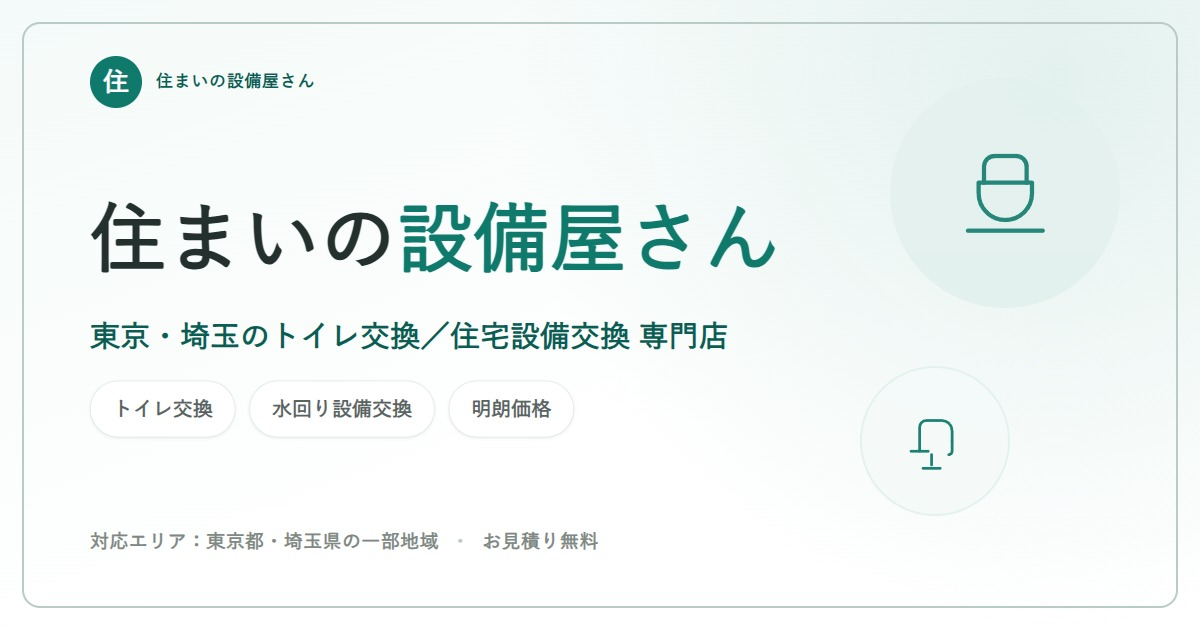
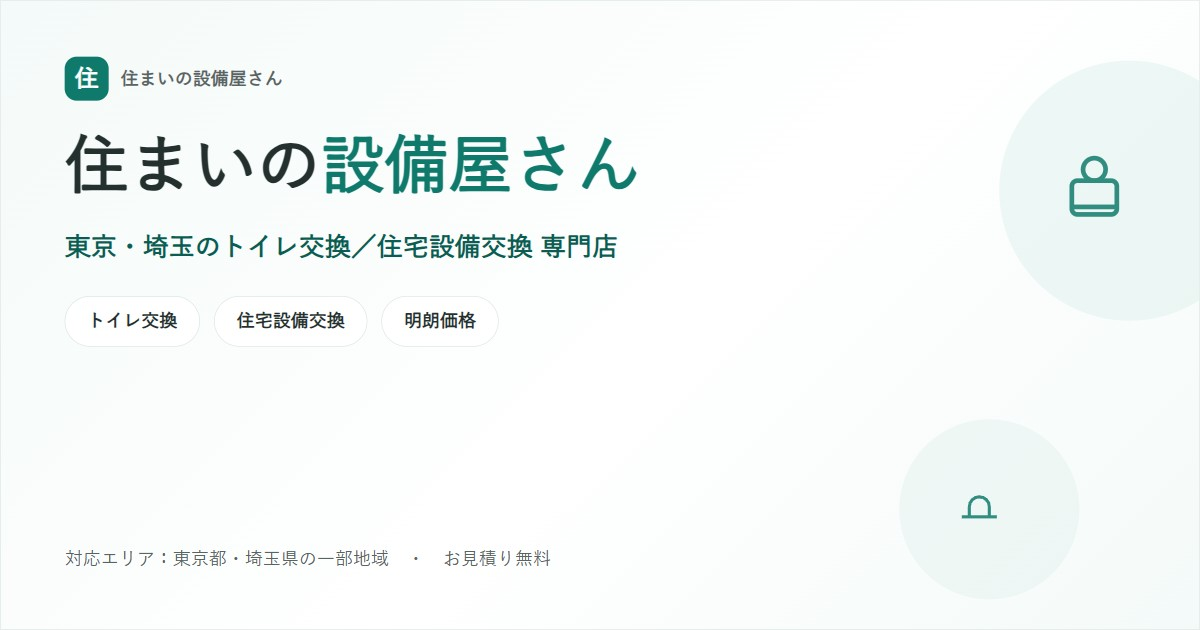
表記を「水回り設備交換」から「住宅設備交換」に統一
IHクッキングヒーターやレンジフードなど厳密には水回りではない対応カテゴリを含むため、
title/meta description/JSON-LD/本文の表記を住宅設備交換系に統一。OGP画像も再作成。

diff --git a/index.html b/index.html
@@ -24,7 +24,7 @@
     "@context": "https://schema.org",
     "@type": "HomeAndConstructionBusiness",
     "name": "住まいの設備屋さん",
-    "description": "東京都・埼玉県の一部地域で、トイレ・温水洗浄便座・蛇口・ビルトイン食洗機・ビルトインコンロ・レンジフード・IHクッキングヒーター・浴室乾燥機・換気扇などの住宅設備（水回り）交換工事を専門に行う事業者です。対応エリアと取り扱い商品を絞ることで、明朗な低価格と正確な施工を両立しています。",
+    "description": "東京都・埼玉県の一部地域で、トイレ・温水洗浄便座・蛇口・ビルトイン食洗機・ビルトインコンロ・レンジフード・IHクッキングヒーター・浴室乾燥機・換気扇などの住宅設備交換工事を専門に行う事業者です。対応エリアと取り扱い商品を絞ることで、明朗な低価格と正確な施工を両立しています。",
     "url": "https://www.sumainosetsubiya.com/",
     "priceRange": "¥¥",
     "email": "sumainosetsubiya@gmail.com",
@@ -78,7 +78,7 @@
       <span class="logo-mark" aria-hidden="true">住</span>
       <span class="logo-text">
         <span class="logo-text-main">住まいの設備屋さん</span>
-        <span class="logo-text-sub">水回り設備 交換専門</span>
+        <span class="logo-text-sub">住宅設備 交換専門</span>
       </span>
     </a>
 
@@ -108,9 +108,9 @@
     <div class="container hero-inner">
       <div class="hero-content">
         <span class="hero-eyebrow">東京・埼玉の一部エリア対応</span>
-        <h1 class="hero-title">地域と商品を絞るから実現できる、<br>明朗価格と正確な水回り設備交換</h1>
+        <h1 class="hero-title">地域と商品を絞るから実現できる、<br>明朗価格と正確な住宅設備交換</h1>
         <p class="hero-lead">
-          トイレ・食洗機・コンロ・レンジフード・蛇口など、住まいの水回り設備の交換工事を専門に行っています。
+          トイレ・食洗機・コンロ・レンジフード・蛇口など、住宅設備の交換工事を専門に行っています。
           対応エリアと取り扱い商品をあらかじめ限定することで、無駄なコストを抑えた明朗な価格と、
           丁寧で正確な施工の両立を目指しています。
         </p>
@@ -138,7 +138,7 @@
         <h2 class="section-title">対応エリアと商品を絞った、地域密着の専門店です</h2>
         <p class="section-lead">
           「住まいの設備屋さん」は、東京都・埼玉県の一部地域に対応エリアを限定して活動する、
-          水回り設備交換の専門事業者です。トイレ・温水洗浄便座・蛇口・ビルトイン食洗機・
+          住宅設備交換の専門事業者です。トイレ・温水洗浄便座・蛇口・ビルトイン食洗機・
           ビルトインコンロ・レンジフード・IHクッキングヒーター・浴室乾燥機・換気扇など、
           住宅設備の交換工事を専門としています。
         </p>
@@ -155,7 +155,7 @@
         <div class="card">
           <h3 class="card-title">安さだけでなく、正確な取り付けを重視</h3>
           <p class="card-text">
-            価格を抑えることだけを目的にはしていません。水回り設備は取り付けの正確さが
+            価格を抑えることだけを目的にはしていません。住宅設備は取り付けの正確さが
             その後の使い勝手や耐久性に直結するため、一件一件、丁寧かつ確実な施工を
             何より大切にしています。
           </p>
@@ -169,7 +169,7 @@
     <div class="container">
       <div class="section-header">
         <span class="section-eyebrow">対応サービス</span>
-        <h2 class="section-title">住まいの水回り設備、幅広く交換対応しています</h2>
+        <h2 class="section-title">住宅設備、幅広く交換対応しています</h2>
         <p class="section-lead">下記9つのカテゴリの交換工事に対応しています。詳しい料金の目安はサービス・料金ページでご確認いただけます。</p>
       </div>
 
@@ -306,7 +306,7 @@
           </span>
           <div>
             <h3>丁寧で正確な施工</h3>
-            <p>安さだけを追い求めるのではなく、水回り設備ならではの取り付け精度にこだわっています。取り扱い商品を絞ることで、施工品質の安定にもつなげています。</p>
+            <p>安さだけを追い求めるのではなく、住宅設備ならではの取り付け精度にこだわっています。取り扱い商品を絞ることで、施工品質の安定にもつなげています。</p>
           </div>
         </div>
 
@@ -366,7 +366,7 @@
         </div>
 
         <div class="card">
-          <div class="photo-placeholder" role="img" aria-label="キッチン水回り設備交換工事の施工写真（準備中）：ビルトインコンロ・レンジフード交換の様子を掲載予定">
+          <div class="photo-placeholder" role="img" aria-label="キッチン住宅設備交換工事の施工写真（準備中）：ビルトインコンロ・レンジフード交換の様子を掲載予定">
             <svg viewBox="0 0 48 48" aria-hidden="true"><rect x="7" y="10" width="34" height="28" rx="2"/><circle cx="17" cy="20" r="5"/><circle cx="31" cy="20" r="5"/></svg>
             <strong>施工写真 準備中</strong>
           </div>
@@ -416,7 +416,7 @@
         <span class="logo-mark" aria-hidden="true">住</span>
         <span class="logo-text">
           <span class="logo-text-main">住まいの設備屋さん</span>
-          <span class="logo-text-sub">水回り設備 交換専門</span>
+          <span class="logo-text-sub">住宅設備 交換専門</span>
         </span>
       </a>
       <p>東京・埼玉の一部対応エリアにて、トイレ・温水洗浄便座・蛇口・ビルトイン食洗機・ビルトインコンロ・レンジフード・IHクッキングヒーター・浴室乾燥機・換気扇の交換工事を専門に行っています。対応地域と対応商品を絞ることで、明朗な低価格と正確な施工を両立しています。</p>

diff --git a/partials_header_footer_reference.html b/partials_header_footer_reference.html
@@ -59,7 +59,7 @@
 <head>
   <meta charset="UTF-8">
   <meta name="viewport" content="width=device-width, initial-scale=1">
-  <title>【ページ名】｜住まいの設備屋さん（東京・埼玉の水回り設備交換専門）</title>
+  <title>【ページ名】｜住まいの設備屋さん（東京・埼玉の住宅設備交換専門）</title>
   <meta name="description" content="【このページ固有の120〜160文字程度の紹介文。対象キーワードを自然に含める。例：東京・埼玉の一部対応エリアで、トイレ・食洗機・コンロなど住宅設備の交換工事を行う「住まいの設備屋さん」の◯◯ページです。】">
 
   <!-- OGP（SNS等でシェアされた際の表示設定） -->
@@ -93,7 +93,7 @@
       <span class="logo-mark" aria-hidden="true">住</span>
       <span class="logo-text">
         <span class="logo-text-main">住まいの設備屋さん</span>
-        <span class="logo-text-sub">水回り設備 交換専門</span>
+        <span class="logo-text-sub">住宅設備 交換専門</span>
       </span>
     </a>
 
@@ -128,7 +128,7 @@
         <span class="logo-mark" aria-hidden="true">住</span>
         <span class="logo-text">
           <span class="logo-text-main">住まいの設備屋さん</span>
-          <span class="logo-text-sub">水回り設備 交換専門</span>
+          <span class="logo-text-sub">住宅設備 交換専門</span>
         </span>
       </a>
       <p>東京・埼玉の一部対応エリアにて、トイレ・温水洗浄便座・蛇口・ビルトイン食洗機・ビルトインコンロ・レンジフード・IHクッキングヒーター・浴室乾燥機・換気扇の交換工事を専門に行っています。対応地域と対応商品を絞ることで、明朗な低価格と正確な施工を両立しています。</p>
@@ -256,7 +256,7 @@
   "@context": "https://schema.org",
   "@type": "HomeAndConstructionBusiness",
   "name": "住まいの設備屋さん",
-  "description": "東京都・埼玉県の一部地域で、トイレ・温水洗浄便座・蛇口・ビルトイン食洗機・ビルトインコンロ・レンジフード・IHクッキングヒーター・浴室乾燥機・換気扇などの住宅設備（水回り）交換工事を専門に行う事業者です。対応エリアと取り扱い商品を絞ることで、明朗な低価格と正確な施工を両立しています。",
+  "description": "東京都・埼玉県の一部地域で、トイレ・温水洗浄便座・蛇口・ビルトイン食洗機・ビルトインコンロ・レンジフード・IHクッキングヒーター・浴室乾燥機・換気扇などの住宅設備交換工事を専門に行う事業者です。対応エリアと取り扱い商品を絞ることで、明朗な低価格と正確な施工を両立しています。",
   "url": "https://www.sumainosetsubiya.com/",
   "priceRange": "¥¥",
   "email": "sumainosetsubiya@gmail.com",

diff --git a/works.html b/works.html
@@ -3,13 +3,13 @@
 <head>
   <meta charset="UTF-8">
   <meta name="viewport" content="width=device-width, initial-scale=1">
-  <title>施工実績｜住まいの設備屋さん（東京・埼玉の水回り設備交換専門）</title>
+  <title>施工実績｜住まいの設備屋さん（東京・埼玉の住宅設備交換専門）</title>
   <meta name="description" content="住まいの設備屋さんの施工実績ページです。トイレ・ビルトイン食洗機・ビルトインコンロ・蛇口など、東京・埼玉エリアで対応した交換工事の事例を、施工エリア・取付商品・作業時間とあわせてご紹介しています。">
 
   <!-- OGP（SNS等でシェアされた際の表示設定） -->
   <meta property="og:type" content="website">
   <meta property="og:title" content="施工実績｜住まいの設備屋さん">
-  <meta property="og:description" content="トイレ・食洗機・コンロ・蛇口など、東京・埼玉エリアで対応した水回り設備交換工事の施工実績をご紹介しています。">
+  <meta property="og:description" content="トイレ・食洗機・コンロ・蛇口など、東京・埼玉エリアで対応した住宅設備交換工事の施工実績をご紹介しています。">
   <meta property="og:url" content="https://（本番ドメイン確定後にここへ記載）/works.html">
   <!-- og:image: 施工写真・アイキャッチ画像が用意でき次第、このパスに差し替えてください -->
   <meta property="og:image" content="images/ogp-default.jpg">
@@ -38,7 +38,7 @@
       <span class="logo-mark" aria-hidden="true">住</span>
       <span class="logo-text">
         <span class="logo-text-main">住まいの設備屋さん</span>
-        <span class="logo-text-sub">水回り設備 交換専門</span>
+        <span class="logo-text-sub">住宅設備 交換専門</span>
       </span>
     </a>
 
@@ -125,7 +125,7 @@
         <span class="logo-mark" aria-hidden="true">住</span>
         <span class="logo-text">
           <span class="logo-text-main">住まいの設備屋さん</span>
-          <span class="logo-text-sub">水回り設備 交換専門</span>
+          <span class="logo-text-sub">住宅設備 交換専門</span>
         </span>
       </a>
       <p>東京・埼玉の一部対応エリアにて、トイレ・温水洗浄便座・蛇口・ビルトイン食洗機・ビルトインコンロ・レンジフード・IHクッキングヒーター・浴室乾燥機・換気扇の交換工事を専門に行っています。対応地域と対応商品を絞ることで、明朗な低価格と正確な施工を両立しています。</p>

diff --git a/about.html b/about.html
@@ -28,7 +28,7 @@
       <span class="logo-mark" aria-hidden="true">住</span>
       <span class="logo-text">
         <span class="logo-text-main">住まいの設備屋さん</span>
-        <span class="logo-text-sub">水回り設備 交換専門</span>
+        <span class="logo-text-sub">住宅設備 交換専門</span>
       </span>
     </a>
 
@@ -81,7 +81,7 @@
             <tr>
               <th scope="row">事業内容</th>
               <td>
-                住宅設備（水回り）の交換工事<br>
+                住宅設備の交換工事<br>
                 トイレ・温水洗浄便座・蛇口（キッチン／浴室／洗面）・ビルトイン食洗機・
                 ビルトインコンロ・レンジフード・IHクッキングヒーター・浴室乾燥機・
                 換気扇（トイレ本体交換時のオプション）の交換工事
@@ -105,7 +105,7 @@
 
       <p class="section-lead max-w-prose">
         住まいの設備屋さんは、代表の菅原健一が営む個人事業として、東京都・埼玉県の一部地域に
-        対応エリアを限定し、住宅設備（水回り）の交換工事を専門に行っています。
+        対応エリアを限定し、住宅設備の交換工事を専門に行っています。
         対応エリアと取り扱い商品を絞ることで、無駄なコストを抑えた明朗な価格と、
         正確で丁寧な施工の両立を目指しています。
       </p>
@@ -226,7 +226,7 @@
         <span class="logo-mark" aria-hidden="true">住</span>
         <span class="logo-text">
           <span class="logo-text-main">住まいの設備屋さん</span>
-          <span class="logo-text-sub">水回り設備 交換専門</span>
+          <span class="logo-text-sub">住宅設備 交換専門</span>
         </span>
       </a>
       <p>東京・埼玉の一部対応エリアにて、トイレ・温水洗浄便座・蛇口・ビルトイン食洗機・ビルトインコンロ・レンジフード・IHクッキングヒーター・浴室乾燥機・換気扇の交換工事を専門に行っています。対応地域と対応商品を絞ることで、明朗な低価格と正確な施工を両立しています。</p>

diff --git a/services.html b/services.html
@@ -3,7 +3,7 @@
 <head>
   <meta charset="UTF-8">
   <meta name="viewport" content="width=device-width, initial-scale=1">
-  <title>サービス・料金｜住まいの設備屋さん（東京・埼玉の水回り設備交換専門）</title>
+  <title>サービス・料金｜住まいの設備屋さん（東京・埼玉の住宅設備交換専門）</title>
   <meta name="description" content="住まいの設備屋さんのサービス・料金ページです。トイレ・温水洗浄便座・蛇口・ビルトイン食洗機・ビルトインコンロ・レンジフード・IHクッキングヒーター・浴室乾燥機・換気扇の9カテゴリについて、グレード別の商品と工事費込みの総額料金をご案内しています。">
 
   <!-- OGP（SNS等でシェアされた際の表示設定） -->
@@ -28,7 +28,7 @@
       <span class="logo-mark" aria-hidden="true">住</span>
       <span class="logo-text">
         <span class="logo-text-main">住まいの設備屋さん</span>
-        <span class="logo-text-sub">水回り設備 交換専門</span>
+        <span class="logo-text-sub">住宅設備 交換専門</span>
       </span>
     </a>
 
@@ -538,7 +538,7 @@
         <span class="logo-mark" aria-hidden="true">住</span>
         <span class="logo-text">
           <span class="logo-text-main">住まいの設備屋さん</span>
-          <span class="logo-text-sub">水回り設備 交換専門</span>
+          <span class="logo-text-sub">住宅設備 交換専門</span>
         </span>
       </a>
       <p>東京・埼玉の一部対応エリアにて、トイレ・温水洗浄便座・蛇口・ビルトイン食洗機・ビルトインコンロ・レンジフード・IHクッキングヒーター・浴室乾燥機・換気扇の交換工事を専門に行っています。対応地域と対応商品を絞ることで、明朗な低価格と正確な施工を両立しています。</p>

diff --git a/area.html b/area.html
@@ -3,7 +3,7 @@
 <head>
   <meta charset="UTF-8">
   <meta name="viewport" content="width=device-width, initial-scale=1">
-  <title>対応エリア｜住まいの設備屋さん（東京・埼玉の水回り設備交換専門）</title>
+  <title>対応エリア｜住まいの設備屋さん（東京・埼玉の住宅設備交換専門）</title>
   <meta name="description" content="住まいの設備屋さんの対応エリア一覧です。東京都（足立区・荒川区・板橋区・北区・練馬区）、埼玉県（上尾市・朝霞市・桶川市・川口市・越谷市・さいたま市各区・志木市・草加市・戸田市・新座市・富士見市・ふじみ野市・和光市・蕨市）で対応しています。">
 
   <!-- OGP（SNS等でシェアされた際の表示設定） -->
@@ -28,7 +28,7 @@
       <span class="logo-mark" aria-hidden="true">住</span>
       <span class="logo-text">
         <span class="logo-text-main">住まいの設備屋さん</span>
-        <span class="logo-text-sub">水回り設備 交換専門</span>
+        <span class="logo-text-sub">住宅設備 交換専門</span>
       </span>
     </a>
 
@@ -208,7 +208,7 @@
         <span class="logo-mark" aria-hidden="true">住</span>
         <span class="logo-text">
           <span class="logo-text-main">住まいの設備屋さん</span>
-          <span class="logo-text-sub">水回り設備 交換専門</span>
+          <span class="logo-text-sub">住宅設備 交換専門</span>
         </span>
       </a>
       <p>東京・埼玉の一部対応エリアにて、トイレ・温水洗浄便座・蛇口・ビルトイン食洗機・ビルトインコンロ・レンジフード・IHクッキングヒーター・浴室乾燥機・換気扇の交換工事を専門に行っています。対応地域と対応商品を絞ることで、明朗な低価格と正確な施工を両立しています。</p>

diff --git a/faq.html b/faq.html
@@ -3,7 +3,7 @@
 <head>
   <meta charset="UTF-8">
   <meta name="viewport" content="width=device-width, initial-scale=1">
-  <title>よくある質問｜住まいの設備屋さん（東京・埼玉の水回り設備交換専門）</title>
+  <title>よくある質問｜住まいの設備屋さん（東京・埼玉の住宅設備交換専門）</title>
   <meta name="description" content="住まいの設備屋さんによくいただくご質問をまとめました。納期・工事日の目安、追加費用の有無、お支払い方法、対応エリア外のご依頼、お電話でのご相談についてなどをご案内します。">
 
   <!-- OGP（SNS等でシェアされた際の表示設定） -->
@@ -28,7 +28,7 @@
       <span class="logo-mark" aria-hidden="true">住</span>
       <span class="logo-text">
         <span class="logo-text-main">住まいの設備屋さん</span>
-        <span class="logo-text-sub">水回り設備 交換専門</span>
+        <span class="logo-text-sub">住宅設備 交換専門</span>
       </span>
     </a>
 
@@ -168,7 +168,7 @@
         <span class="logo-mark" aria-hidden="true">住</span>
         <span class="logo-text">
           <span class="logo-text-main">住まいの設備屋さん</span>
-          <span class="logo-text-sub">水回り設備 交換専門</span>
+          <span class="logo-text-sub">住宅設備 交換専門</span>
         </span>
       </a>
       <p>東京・埼玉の一部対応エリアにて、トイレ・温水洗浄便座・蛇口・ビルトイン食洗機・ビルトインコンロ・レンジフード・IHクッキングヒーター・浴室乾燥機・換気扇の交換工事を専門に行っています。対応地域と対応商品を絞ることで、明朗な低価格と正確な施工を両立しています。</p>

diff --git a/reserve.html b/reserve.html
@@ -3,7 +3,7 @@
 <head>
   <meta charset="UTF-8">
   <meta name="viewport" content="width=device-width, initial-scale=1">
-  <title>ご予約｜住まいの設備屋さん（東京・埼玉の水回り設備交換専門）</title>
+  <title>ご予約｜住まいの設備屋さん（東京・埼玉の住宅設備交換専門）</title>
   <meta name="description" content="住まいの設備屋さんの現地調査・お見積り相談のご予約ページです。予約カレンダーで空き状況をご確認のうえ、ご都合の良い日程でお申し込みいただけます。">
 
   <!-- OGP（SNS等でシェアされた際の表示設定） -->
@@ -28,7 +28,7 @@
       <span class="logo-mark" aria-hidden="true">住</span>
       <span class="logo-text">
         <span class="logo-text-main">住まいの設備屋さん</span>
-        <span class="logo-text-sub">水回り設備 交換専門</span>
+        <span class="logo-text-sub">住宅設備 交換専門</span>
       </span>
     </a>
 
@@ -122,7 +122,7 @@
         <span class="logo-mark" aria-hidden="true">住</span>
         <span class="logo-text">
           <span class="logo-text-main">住まいの設備屋さん</span>
-          <span class="logo-text-sub">水回り設備 交換専門</span>
+          <span class="logo-text-sub">住宅設備 交換専門</span>
         </span>
       </a>
       <p>東京・埼玉の一部対応エリアにて、トイレ・温水洗浄便座・蛇口・ビルトイン食洗機・ビルトインコンロ・レンジフード・IHクッキングヒーター・浴室乾燥機・換気扇の交換工事を専門に行っています。対応地域と対応商品を絞ることで、明朗な低価格と正確な施工を両立しています。</p>

diff --git a/contact.html b/contact.html
@@ -28,7 +28,7 @@
       <span class="logo-mark" aria-hidden="true">住</span>
       <span class="logo-text">
         <span class="logo-text-main">住まいの設備屋さん</span>
-        <span class="logo-text-sub">水回り設備 交換専門</span>
+        <span class="logo-text-sub">住宅設備 交換専門</span>
       </span>
     </a>
 
@@ -158,7 +158,7 @@
         <span class="logo-mark" aria-hidden="true">住</span>
         <span class="logo-text">
           <span class="logo-text-main">住まいの設備屋さん</span>
-          <span class="logo-text-sub">水回り設備 交換専門</span>
+          <span class="logo-text-sub">住宅設備 交換専門</span>
         </span>
       </a>
       <p>東京・埼玉の一部対応エリアにて、トイレ・温水洗浄便座・蛇口・ビルトイン食洗機・ビルトインコンロ・レンジフード・IHクッキングヒーター・浴室乾燥機・換気扇の交換工事を専門に行っています。対応地域と対応商品を絞ることで、明朗な低価格と正確な施工を両立しています。</p>
